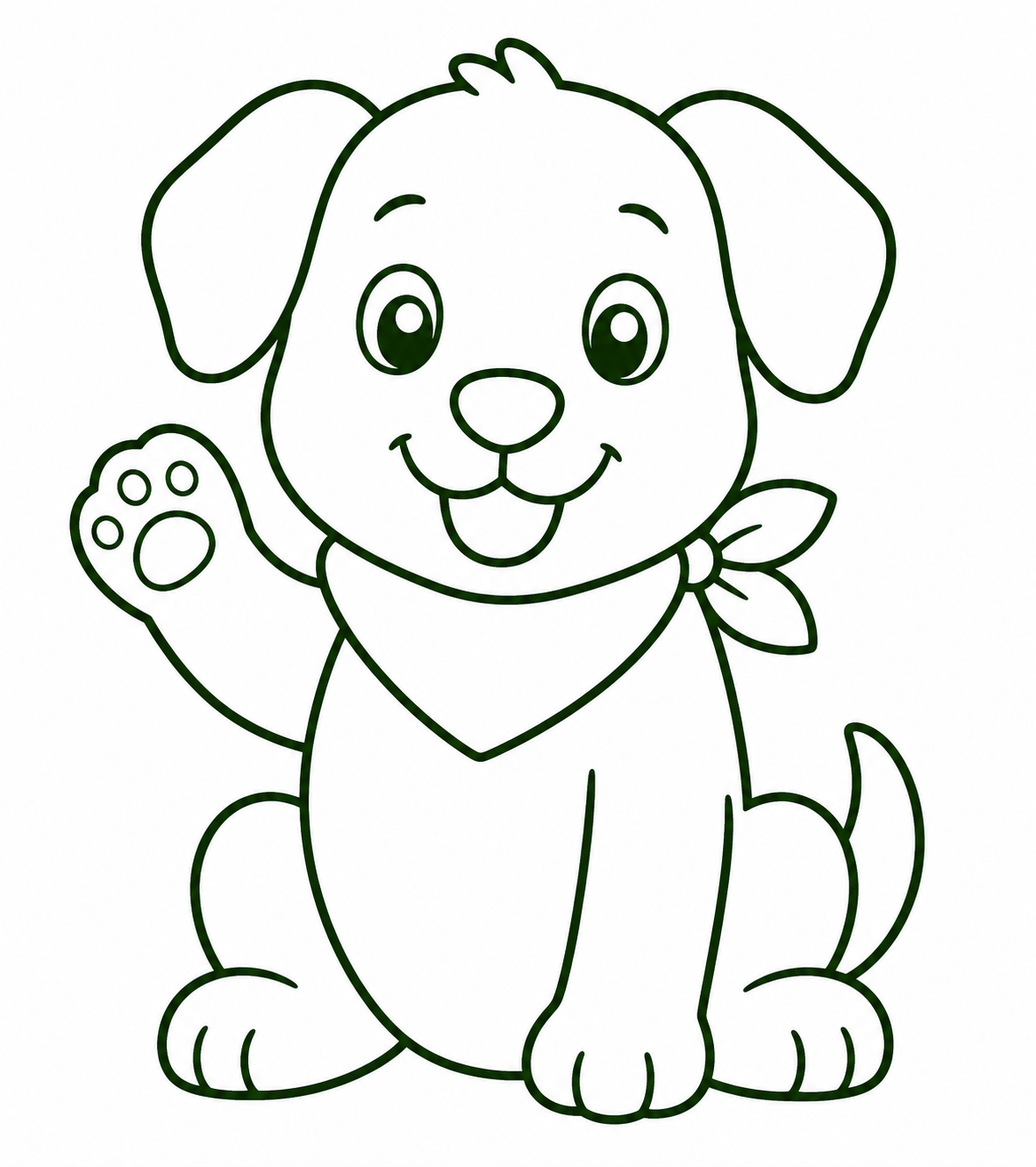
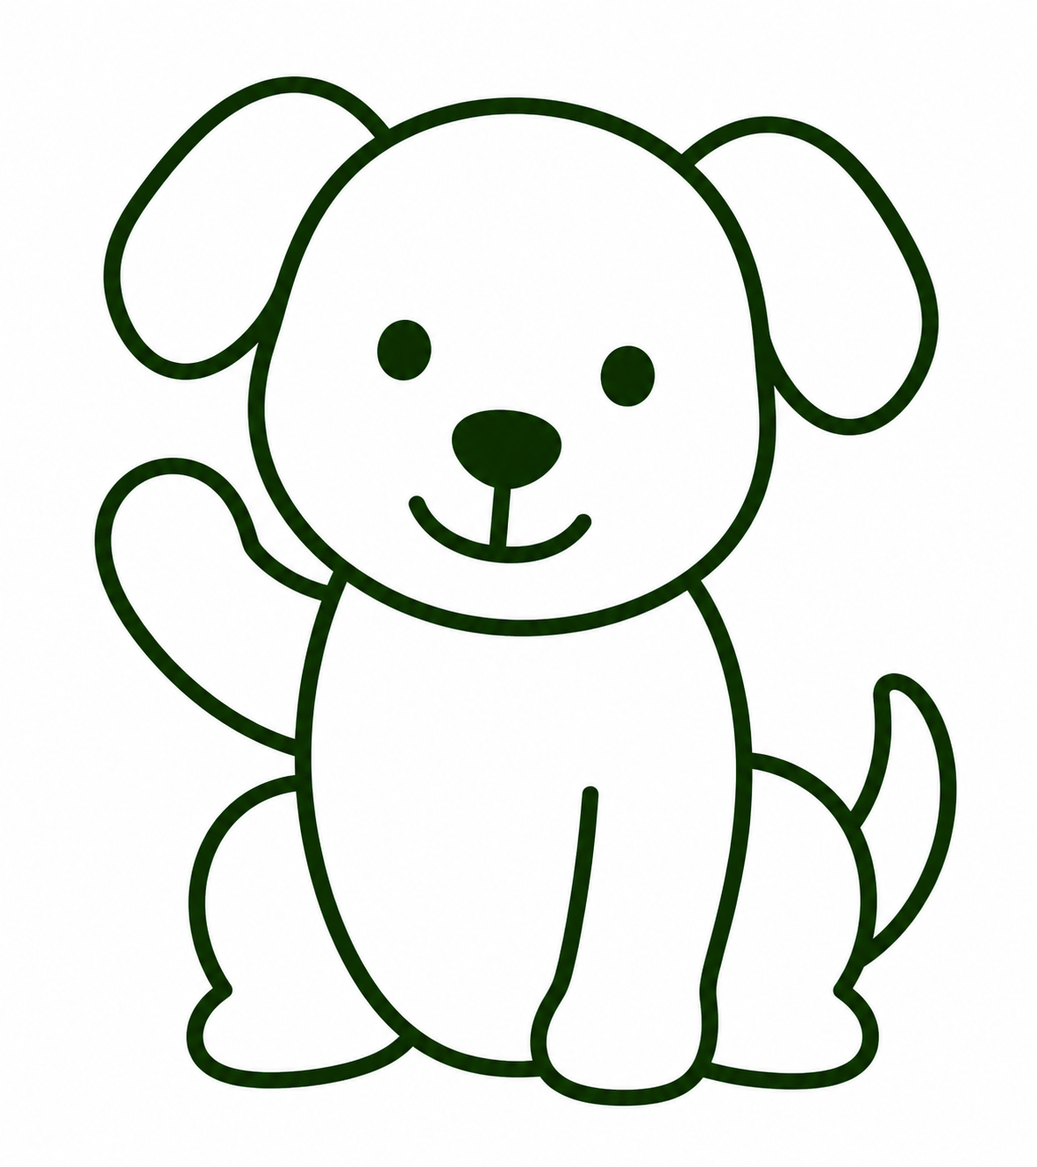
feat: simplify drawing studio and add fullscreen

Changed region(s): [[0.061, 0.0308, 0.945, 0.9857], [0.3658, 0.154, 0.4268, 0.1848], [0.3658, 0.3696, 0.3963, 0.4005]]

diff --git a/app/globals.css b/app/globals.css
@@ -254,6 +254,7 @@ main { min-width: 0; }
 .drawing-page { background:radial-gradient(circle at 96% 3%,rgba(246,198,88,.2),transparent 18rem),linear-gradient(145deg,rgba(255,253,247,.97),rgba(239,248,232,.94)); }.drawing-header { display:flex; align-items:center; justify-content:space-between; gap:18px; }.drawing-header>div:first-child>span { color:var(--leaf); font-size:11px; font-weight:950; }.drawing-header h1 { margin:5px 0 3px; font-size:32px; }.drawing-header p { margin:0; color:var(--muted); font-size:12px; }.drawing-wallet { min-width:120px; display:grid; grid-template-columns:auto 1fr; align-items:center; gap:0 8px; padding:12px 15px; border:1px solid #edd692; border-radius:17px; background:#fff4ca; }.drawing-wallet>span { grid-row:1/3; font-size:25px; }.drawing-wallet strong { font-size:20px; }.drawing-wallet small { color:#806d3c; font-size:9px; }.drawing-levels { display:grid; grid-template-columns:repeat(5,1fr); gap:8px; margin:20px 0 14px; }.drawing-levels button { position:relative; display:grid; grid-template-columns:auto auto 1fr; align-items:center; gap:2px 7px; min-height:75px; border:2px solid #dae8d4; padding:10px; border-radius:17px; color:var(--ink); background:#fff; text-align:left; cursor:pointer; }.drawing-levels button.active { border-color:var(--forest); background:#eef7e8; box-shadow:0 6px 0 rgba(39,93,50,.12); transform:translateY(-2px); }.drawing-levels button>span { grid-row:1/3; font-size:27px; }.drawing-levels b { display:grid; width:18px; height:18px; place-items:center; border-radius:50%; color:#fff; background:var(--leaf); font-size:9px; }.drawing-levels strong { font-size:11px; }.drawing-levels small { grid-column:2/4; color:var(--muted); font-size:8px; }.drawing-levels em { position:absolute; top:5px; right:6px; display:grid; width:17px; height:17px; place-items:center; border-radius:50%; color:#fff; background:var(--forest); font-size:9px; font-style:normal; }.drawing-layout { display:grid; grid-template-columns:minmax(0,1fr) 230px; gap:13px; }.drawing-workspace,.drawing-gallery { border:1px solid #d9e7d3; border-radius:22px; background:rgba(255,255,255,.78); }.drawing-workspace { padding:16px; }.drawing-workspace>header { display:flex; align-items:center; justify-content:space-between; gap:12px; margin-bottom:12px; }.drawing-workspace>header small { color:var(--leaf); font-size:9px; font-weight:850; }.drawing-workspace>header h2 { margin:2px 0; font-size:18px; }.drawing-workspace>header p { margin:0; color:var(--muted); font-size:9px; }.drawing-workspace>header>strong { padding:7px 10px; border-radius:999px; color:#8b6718; background:#fff0bb; font-size:9px; white-space:nowrap; }.drawing-stage { position:relative; overflow:hidden; aspect-ratio:10/7; border:5px solid #f1dfb3; border-radius:22px; background:#fffdf7; box-shadow:inset 0 0 0 1px #e7d5ad; }.drawing-stage img,.drawing-stage canvas { position:absolute; inset:0; width:100%; height:100%; }.drawing-stage img { object-fit:contain; pointer-events:none; }.drawing-stage canvas { z-index:2; touch-action:none; cursor:crosshair; }.drawing-toolbar { display:flex; align-items:center; justify-content:space-between; gap:10px; margin-top:12px; }.color-tools,.brush-tools,.edit-tools { display:flex; align-items:center; gap:5px; }.color-tools button { width:27px; height:27px; border:3px solid #fff; border-radius:50%; box-shadow:0 0 0 1px #d3ded0; cursor:pointer; }.color-tools button.active { box-shadow:0 0 0 3px #5d9655; transform:scale(1.08); }.brush-tools button,.edit-tools button { min-height:31px; border:1px solid #d6e3d1; padding:6px 8px; border-radius:10px; color:#47644a; background:#f8fbf6; font-size:8px; font-weight:850; cursor:pointer; }.brush-tools button { display:flex; align-items:center; gap:4px; }.brush-tools i { display:block; border-radius:50%; background:var(--forest); }.brush-tools button.active,.edit-tools button.active { color:#fff; background:var(--forest); }.edit-tools button:disabled { opacity:.42; cursor:not-allowed; }.template-control { display:flex; align-items:center; justify-content:space-between; gap:14px; margin-top:11px; padding:10px; border-radius:13px; background:#f1f6ed; }.template-control label { display:flex; align-items:center; gap:8px; color:#5c735b; font-size:9px; font-weight:850; }.template-control input { accent-color:var(--forest); }.template-control>button { border:0; padding:10px 13px; border-radius:11px; color:#fff; background:var(--forest); font-size:10px; font-weight:900; cursor:pointer; }.drawing-notice { margin-top:9px; padding:10px; border-radius:11px; color:#496b46; background:#e8f5df; font-size:10px; font-weight:850; text-align:center; }.drawing-gallery { padding:14px; }.drawing-gallery>header { display:flex; align-items:center; justify-content:space-between; gap:8px; }.drawing-gallery header small { color:var(--muted); font-size:8px; }.drawing-gallery h2 { margin:2px 0 0; font-size:16px; }.drawing-gallery header>span { padding:5px 7px; border-radius:999px; color:#5e755c; background:#ecf4e7; font-size:8px; }.drawing-gallery>div:not(.empty-gallery) { display:grid; gap:8px; max-height:650px; margin-top:12px; overflow:auto; }.drawing-gallery article { overflow:hidden; border:1px solid #dfe8da; border-radius:13px; background:#fff; }.drawing-gallery article img { display:block; width:100%; aspect-ratio:16/10; object-fit:cover; }.drawing-gallery article>div { display:flex; justify-content:space-between; gap:6px; padding:7px 8px; }.drawing-gallery article strong { font-size:9px; }.drawing-gallery article small { color:var(--muted); font-size:7px; }.empty-gallery { display:grid; min-height:290px; place-content:center; justify-items:center; text-align:center; }.empty-gallery>span { font-size:45px; }.empty-gallery strong { margin-top:8px; font-size:12px; }.empty-gallery p { margin:4px 0 0; color:var(--muted); font-size:9px; }
 
 .template-control>button:disabled { color:#91a38e; background:#dfe8db; cursor:not-allowed; box-shadow:none; }
+.drawing-picker { margin-top:22px; padding:20px; border:1px solid #d9e7d3; border-radius:28px; background:rgba(255,255,255,.76); box-shadow:var(--shadow-soft); }.drawing-picker>header { display:flex; align-items:center; gap:13px; margin-bottom:16px; }.drawing-picker>header>span { display:grid; place-items:center; width:58px; height:58px; border-radius:21px 21px 21px 7px; color:#fff; background:var(--forest); font-size:12px; font-weight:950; }.drawing-picker>header div { flex:1; }.drawing-picker>header small,.drawing-picker>header h2 { display:block; margin:0; }.drawing-picker>header small { color:var(--leaf); font-size:10px; font-weight:900; }.drawing-picker>header h2 { margin-top:2px; font-size:24px; }.drawing-picker>header>strong { padding:7px 11px; border-radius:999px; color:#5b7658; background:#edf5e7; font-size:10px; }.drawing-picker>div { display:grid; grid-template-columns:repeat(5,minmax(0,1fr)); gap:11px; }.drawing-picker>div>button { min-width:0; overflow:hidden; border:2px solid #dce9d6; padding:0; border-radius:22px; color:var(--ink); background:#fffdf8; text-align:left; cursor:pointer; transition:.18s ease; }.drawing-picker>div>button:hover { border-color:#82ad76; transform:translateY(-4px); box-shadow:0 12px 26px rgba(48,89,47,.12); }.drawing-picker figure { position:relative; height:190px; margin:0; overflow:hidden; background:linear-gradient(145deg,#eff7e9,#fff2d8); }.drawing-picker figure img { width:100%; height:100%; display:block; object-fit:contain; mix-blend-mode:multiply; }.drawing-picker figure i { position:absolute; left:9px; bottom:8px; display:grid; place-items:center; width:37px; height:37px; border:2px solid #fff; border-radius:13px; background:#edf5e7; font-size:20px; font-style:normal; box-shadow:var(--shadow-soft); }.drawing-picker figure em { position:absolute; top:8px; right:8px; padding:5px 7px; border-radius:999px; color:#fff; background:var(--forest); font-size:8px; font-style:normal; font-weight:900; }.drawing-picker button>div { display:grid; min-height:142px; align-content:start; padding:12px; }.drawing-picker button small { color:var(--leaf); font-size:8px; font-weight:900; }.drawing-picker button strong { margin-top:3px; font-size:15px; }.drawing-picker button p { margin:5px 0 10px; color:var(--muted); font-size:9px; line-height:1.5; }.drawing-picker button span { align-self:end; margin-top:auto; color:var(--forest); font-size:9px; font-weight:950; }.drawing-workspace-actions { display:flex; align-items:center; justify-content:flex-end; flex-wrap:wrap; gap:6px; }.drawing-workspace-actions>strong { padding:7px 10px; border-radius:999px; color:#8b6718; background:#fff0bb; font-size:9px; white-space:nowrap; }.drawing-workspace-actions>button { border:0; padding:8px 10px; border-radius:10px; color:#fff; background:var(--forest); font-size:9px; font-weight:900; cursor:pointer; }.drawing-workspace-actions>.drawing-change { color:#47644a; background:#edf4e9; }.drawing-is-fullscreen { position:fixed; inset:0; z-index:1000; display:block; padding:12px; overflow:auto; background:linear-gradient(145deg,#e8f4df,#fff8df); }.drawing-is-fullscreen .drawing-workspace { min-height:100%; display:grid; grid-template-rows:auto minmax(0,1fr) auto auto; border-radius:24px; box-shadow:0 22px 70px rgba(21,57,28,.25); }.drawing-is-fullscreen .drawing-stage { min-height:calc(100vh - 215px); aspect-ratio:auto; }.drawing-is-fullscreen .drawing-toolbar { margin-top:8px; }.drawing-is-fullscreen .template-control { margin-top:7px; }.drawing-is-fullscreen .drawing-notice { position:fixed; left:50%; bottom:18px; z-index:4; min-width:260px; transform:translateX(-50%); box-shadow:var(--shadow); }
 
 /* ============ 学习计划 ============ */
 .study-calendar { margin-top: 20px; padding: 18px; border: 1px solid #d8e7d1; border-radius: 22px; background: linear-gradient(145deg,#f8fcf4,#fffaf0); }
@@ -329,7 +330,7 @@ main { min-width: 0; }
   .preanswer-audio { margin-top:-4px; }.answer-option { grid-template-columns:1fr auto; grid-template-rows:1fr; align-items:stretch; }.answer-option>.tts-button { min-width:92px; align-self:stretch; }
   .learning-density { grid-template-columns:1fr auto; }.learning-density p { grid-column:1 / -1; }.task-group>header span { overflow:hidden; text-overflow:ellipsis; white-space:nowrap; }.task-icon { font-size:14px; }.trace-board canvas { height:190px; }
   .mobile-nav { position:fixed; display:grid; grid-template-columns:repeat(10,1fr); left:0; right:0; bottom:0; z-index:50; padding:7px 4px max(7px,env(safe-area-inset-bottom)); background:rgba(255,253,247,.96); border-top:1px solid #dfe9d8; box-shadow:0 -8px 24px rgba(48,82,45,.08); backdrop-filter:blur(16px); }.mobile-nav button { min-height:48px; border:0; padding-inline:1px; border-radius:11px; background:none; color:#6b836b; font-size:8px; font-weight:750; }.mobile-nav button span { display:block; font-size:19px; margin-bottom:2px; }.mobile-nav button.active { color:var(--forest); background:#e9f3e3; }
-  .drawing-header { align-items:flex-start; }.drawing-header h1 { font-size:25px; }.drawing-levels { grid-template-columns:repeat(5,125px); overflow-x:auto; margin-right:-15px; padding:3px 15px 8px 1px; }.drawing-layout { grid-template-columns:1fr; }.drawing-gallery { order:2; }.drawing-stage { border-width:3px; border-radius:17px; }.drawing-toolbar { align-items:flex-start; flex-direction:column; }.color-tools { width:100%; justify-content:space-between; }.color-tools button { width:29px; height:29px; }.brush-tools,.edit-tools { width:100%; }.brush-tools button,.edit-tools button { flex:1; }.template-control { align-items:stretch; flex-direction:column; }.template-control label { justify-content:space-between; }.template-control>button { width:100%; }.drawing-gallery>div:not(.empty-gallery) { grid-template-columns:repeat(2,1fr); max-height:none; }
+  .drawing-header { align-items:flex-start; }.drawing-header h1 { font-size:25px; }.drawing-picker { padding:14px 11px; border-radius:21px; }.drawing-picker>header>span { width:47px; height:47px; border-radius:17px 17px 17px 6px; }.drawing-picker>header h2 { font-size:20px; }.drawing-picker>div { grid-template-columns:1fr; }.drawing-picker>div>button { display:grid; grid-template-columns:132px 1fr; }.drawing-picker figure { height:148px; }.drawing-picker button>div { min-height:148px; padding:11px; }.drawing-layout { grid-template-columns:1fr; }.drawing-gallery { order:2; }.drawing-workspace>header { align-items:flex-start; flex-direction:column; }.drawing-workspace-actions { width:100%; justify-content:flex-start; }.drawing-workspace-actions>button { flex:1; }.drawing-stage { border-width:3px; border-radius:17px; }.drawing-toolbar { align-items:flex-start; flex-direction:column; }.color-tools { width:100%; justify-content:space-between; }.color-tools button { width:29px; height:29px; }.brush-tools,.edit-tools { width:100%; }.brush-tools button,.edit-tools button { flex:1; }.template-control { align-items:stretch; flex-direction:column; }.template-control label { justify-content:space-between; }.template-control>button { width:100%; }.drawing-gallery>div:not(.empty-gallery) { grid-template-columns:repeat(2,1fr); max-height:none; }.drawing-is-fullscreen { padding:5px; }.drawing-is-fullscreen .drawing-workspace { padding:9px; border-radius:16px; }.drawing-is-fullscreen .drawing-stage { min-height:calc(100vh - 300px); }
   .study-calendar { padding:14px 10px; }.study-calendar>header { align-items:flex-start; }.calendar-legend { flex-direction:column; gap:3px; }.phase-strip { grid-template-columns:1fr; }.phase-strip span:not(.active) { display:none; }.calendar-days { grid-template-columns:repeat(7,minmax(0,1fr)); gap:5px; }.calendar-days button { min-height:40px; border-radius:9px; }.plan-subject { padding:15px 12px; }.plan-go-today { width:100%; margin-left:0; }
   .plan-modal { padding:28px 16px 20px; max-height:92vh; overflow:auto; }.plan-modal h2 { font-size:23px; }.plan-grid { grid-template-columns:1fr; }.plan-card.featured { transform:none; }.plan-card { padding:20px 14px 14px; }.plan-card p { min-height:0; }
 }

diff --git a/app/components/DrawingStudio.tsx b/app/components/DrawingStudio.tsx
@@ -6,11 +6,11 @@ import type { PointerEvent as ReactPointerEvent } from "react";
 type DrawingSample = { id: string; title: string; category: string; level: string; icon: string; image: string; instruction: string; reward: number; opacity: number };
 
 const samples: DrawingSample[] = [
-  { id: "puppy-coloring", title: "挥手小狗", category: "森林动物", level: "萌芽填色", icon: "🐶", image: "/drawing-samples/01-puppy-coloring.png", instruction: "选一支粗画笔，给小狗涂上喜欢的颜色。", reward: 5, opacity: .9 },
-  { id: "bunny-tracing", title: "萝卜小兔", category: "森林动物", level: "线条描画", icon: "🐰", image: "/drawing-samples/02-bunny-tracing.png", instruction: "沿着绿色虚线慢慢画，别着急。", reward: 8, opacity: .65 },
-  { id: "kitten-steps", title: "四步画小猫", category: "分步学画", level: "分步学画", icon: "🐱", image: "/drawing-samples/03-kitten-steps.png", instruction: "从圆形开始，跟着四幅小图一步一步画。", reward: 10, opacity: .85 },
-  { id: "cottage-grid", title: "森林小屋", category: "花草自然", level: "网格临摹", icon: "🏡", image: "/drawing-samples/04-cottage-grid.png", instruction: "观察每一个格子，把小屋临摹出来。", reward: 12, opacity: .55 },
-  { id: "train-challenge", title: "补全小火车", category: "快乐交通", level: "创意挑战", icon: "🚂", image: "/drawing-samples/05-train-challenge.png", instruction: "发挥想象，在右边补全小火车和森林。", reward: 15, opacity: .8 },
+  { id: "puppy-coloring", title: "挥手小狗", category: "森林动物", level: "大块填色", icon: "🐶", image: "/drawing-samples/01-puppy-coloring.png", instruction: "只有几个大色块，选喜欢的颜色涂一涂。", reward: 5, opacity: .9 },
+  { id: "bunny-tracing", title: "萝卜小兔", category: "森林动物", level: "简单描线", icon: "🐰", image: "/drawing-samples/02-bunny-tracing.png", instruction: "沿着宽宽的绿色虚线慢慢画。", reward: 8, opacity: .65 },
+  { id: "kitten-steps", title: "三步画小猫", category: "分步学画", level: "三步学画", icon: "🐱", image: "/drawing-samples/03-kitten-steps.png", instruction: "圆形、耳朵、笑脸，三步画出小猫。", reward: 10, opacity: .85 },
+  { id: "cottage-grid", title: "四格小屋", category: "花草自然", level: "四格临摹", icon: "🏡", image: "/drawing-samples/04-cottage-grid.png", instruction: "只看四个大格子，把简单小屋画出来。", reward: 12, opacity: .55 },
+  { id: "train-challenge", title: "补全小火车", category: "快乐交通", level: "半边补全", icon: "🚂", image: "/drawing-samples/05-train-challenge.png", instruction: "照着左边，在右边补全半辆小火车。", reward: 15, opacity: .8 },
 ];
 
 const colors = ["#245b35", "#f05d74", "#f59d3d", "#f2ca4b", "#71b95a", "#52a8cf", "#8e71c7", "#6f4c3e"];
@@ -18,15 +18,17 @@ const brushSizes = [6, 14, 28];
 
 export default function DrawingStudio({ coins, onReward }: { coins: number; onReward: (amount: number) => void }) {
   const canvasRef = useRef<HTMLCanvasElement>(null);
+  const layoutRef = useRef<HTMLDivElement>(null);
   const drawingRef = useRef(false);
   const lastPoint = useRef({ x: 0, y: 0 });
   const undoStack = useRef<ImageData[]>([]);
   const redoStack = useRef<ImageData[]>([]);
-  const [sample, setSample] = useState(samples[0]);
+  const [sample, setSample] = useState<DrawingSample | null>(null);
   const [color, setColor] = useState(colors[0]);
   const [brushSize, setBrushSize] = useState(14);
   const [eraser, setEraser] = useState(false);
   const [templateOpacity, setTemplateOpacity] = useState(samples[0].opacity);
+  const [isFullscreen, setIsFullscreen] = useState(false);
   const [hasDrawing, setHasDrawing] = useState(false);
   const [, setHistoryTick] = useState(0);
   const [notice, setNotice] = useState("");
@@ -38,6 +40,18 @@ export default function DrawingStudio({ coins, onReward }: { coins: number; onRe
       setCompleted(JSON.parse(window.localStorage.getItem("puppy-forest-drawing-completed") ?? "[]"));
       setGallery(JSON.parse(window.localStorage.getItem("puppy-forest-drawing-gallery") ?? "[]"));
     } catch { /* ignore */ }
+  }, []);
+
+  useEffect(() => {
+    document.body.style.overflow = isFullscreen ? "hidden" : "";
+    return () => { document.body.style.overflow = ""; };
+  }, [isFullscreen]);
+
+  useEffect(() => {
+    const onFullscreenChange = () => { if (!document.fullscreenElement) setIsFullscreen(false); };
+    const onKeyDown = (event: KeyboardEvent) => { if (event.key === "Escape") setIsFullscreen(false); };
+    document.addEventListener("fullscreenchange", onFullscreenChange); document.addEventListener("keydown", onKeyDown);
+    return () => { document.removeEventListener("fullscreenchange", onFullscreenChange); document.removeEventListener("keydown", onKeyDown); };
   }, []);
 
   const context = () => canvasRef.current?.getContext("2d", { willReadFrequently: true }) ?? null;
@@ -54,6 +68,19 @@ export default function DrawingStudio({ coins, onReward }: { coins: number; onRe
   const chooseSample = (next: DrawingSample) => {
     clearDrawing(false); undoStack.current = []; redoStack.current = [];
     setSample(next); setTemplateOpacity(next.opacity); setNotice(""); setHistoryTick((value) => value + 1);
+  };
+  const returnToChoices = () => {
+    if (document.fullscreenElement) void document.exitFullscreen();
+    setIsFullscreen(false); clearDrawing(false); undoStack.current = []; redoStack.current = [];
+    setSample(null); setNotice("");
+  };
+  const toggleFullscreen = async () => {
+    if (isFullscreen) {
+      if (document.fullscreenElement) await document.exitFullscreen();
+      setIsFullscreen(false); return;
+    }
+    setIsFullscreen(true);
+    try { await layoutRef.current?.requestFullscreen?.(); } catch { /* CSS fullscreen remains available */ }
   };
   const pointFromEvent = (event: ReactPointerEvent<HTMLCanvasElement>) => {
     const rect = event.currentTarget.getBoundingClientRect();
@@ -76,7 +103,7 @@ export default function DrawingStudio({ coins, onReward }: { coins: number; onRe
   const undo = () => { const ctx = context(); if (!ctx || undoStack.current.length === 0) return; redoStack.current.push(ctx.getImageData(0, 0, 1000, 700)); ctx.putImageData(undoStack.current.pop()!, 0, 0); setHistoryTick((value) => value + 1); };
   const redo = () => { const ctx = context(); if (!ctx || redoStack.current.length === 0) return; undoStack.current.push(ctx.getImageData(0, 0, 1000, 700)); ctx.putImageData(redoStack.current.pop()!, 0, 0); setHistoryTick((value) => value + 1); };
   const saveArtwork = async () => {
-    const source = canvasRef.current; if (!source) return;
+    const source = canvasRef.current; if (!source || !sample) return;
     const output = document.createElement("canvas"); output.width = 800; output.height = 560;
     const ctx = output.getContext("2d"); if (!ctx) return;
     ctx.fillStyle = "#fffdf7"; ctx.fillRect(0, 0, 800, 560);
@@ -98,11 +125,10 @@ export default function DrawingStudio({ coins, onReward }: { coins: number; onRe
 
   return <section className="drawing-page page-surface">
     <header className="drawing-header"><div><span>🎨 森林小画室</span><h1>照着画，也可以画得不一样</h1><p>从简单填色到创意挑战，慢慢练习小手控制和观察力。</p></div><div className="drawing-wallet"><span>🪙</span><strong>{coins}</strong><small>学习金币</small></div></header>
-    <div className="drawing-levels">{samples.map((item, index) => <button className={sample.id === item.id ? "active" : ""} key={item.id} onClick={() => chooseSample(item)} type="button"><span>{item.icon}</span><b>{index + 1}</b><strong>{item.level}</strong><small>{item.title}</small>{completed.includes(item.id) && <em>✓</em>}</button>)}</div>
-    <div className="drawing-layout"><section className="drawing-workspace"><header><div><small>{sample.category} · {sample.level}</small><h2>{sample.icon} {sample.title}</h2><p>{sample.instruction}</p></div><strong>首次完成 +{sample.reward} 🪙</strong></header>
+    {!sample ? <section className="drawing-picker"><header><span>第一步</span><div><small>今天想画什么？</small><h2>选一张喜欢的画</h2></div><strong>共 {samples.length} 张</strong></header><div>{samples.map((item, index) => <button key={item.id} onClick={() => chooseSample(item)} type="button"><figure><img src={item.image} alt={`${item.title}画画底稿`} /><i>{item.icon}</i>{completed.includes(item.id) && <em>画过啦 ✓</em>}</figure><div><small>第 {index + 1} 关 · {item.level}</small><strong>{item.title}</strong><p>{item.instruction}</p><span>选这张画 →</span></div></button>)}</div></section> : <div ref={layoutRef} className={`drawing-layout${isFullscreen ? " drawing-is-fullscreen" : ""}`}><section className="drawing-workspace"><header><div><small>{sample.category} · {sample.level}</small><h2>{sample.icon} {sample.title}</h2><p>{sample.instruction}</p></div><div className="drawing-workspace-actions"><strong>首次完成 +{sample.reward} 🪙</strong><button onClick={() => void toggleFullscreen()} type="button">{isFullscreen ? "↙ 退出全屏" : "⛶ 全屏画画"}</button><button className="drawing-change" onClick={returnToChoices} type="button">换一张</button></div></header>
       <div className="drawing-stage"><img src={sample.image} alt={`${sample.title}临摹底稿`} style={{ opacity: templateOpacity }} /><canvas ref={canvasRef} width={1000} height={700} onPointerDown={startDrawing} onPointerMove={draw} onPointerUp={stopDrawing} onPointerCancel={stopDrawing} aria-label={`${sample.title}画板`} /></div>
       <div className="drawing-toolbar"><div className="color-tools" aria-label="选择画笔颜色">{colors.map((item) => <button className={color === item && !eraser ? "active" : ""} key={item} onClick={() => { setColor(item); setEraser(false); }} style={{ background: item }} aria-label={`选择颜色 ${item}`} type="button" />)}</div><div className="brush-tools">{brushSizes.map((size) => <button className={brushSize === size ? "active" : ""} key={size} onClick={() => setBrushSize(size)} type="button"><i style={{ width: size / 2 + 5, height: size / 2 + 5 }} />{size === 6 ? "细" : size === 14 ? "中" : "粗"}</button>)}</div><div className="edit-tools"><button className={eraser ? "active" : ""} onClick={() => setEraser(!eraser)} type="button">🧽 橡皮</button><button disabled={undoStack.current.length === 0} onClick={undo} type="button">↶ 撤销</button><button disabled={redoStack.current.length === 0} onClick={redo} type="button">↷ 重做</button><button onClick={() => clearDrawing()} type="button">清空</button></div></div>
       <div className="template-control"><label>底稿清晰度 <input type="range" min="0.15" max="1" step="0.05" value={templateOpacity} onChange={(event) => setTemplateOpacity(Number(event.target.value))} /></label><button disabled={!hasDrawing} onClick={() => void saveArtwork()} type="button">{hasDrawing ? "收藏到我的画册 →" : "先画几笔吧"}</button></div>{notice && <div className="drawing-notice">🌟 {notice}</div>}</section>
-      <aside className="drawing-gallery"><header><div><small>本机最多保存8幅</small><h2>🖼 我的画册</h2></div><span>{gallery.length} 幅</span></header>{gallery.length === 0 ? <div className="empty-gallery"><span>🎨</span><strong>第一幅画在等你</strong><p>画好后点击“收藏到我的画册”。</p></div> : <div>{gallery.map((art) => <article key={art.id}><img src={art.image} alt={art.title} /><div><strong>{art.title}</strong><small>{art.date}</small></div></article>)}</div>}</aside></div>
+      {!isFullscreen && <aside className="drawing-gallery"><header><div><small>本机最多保存8幅</small><h2>🖼 我的画册</h2></div><span>{gallery.length} 幅</span></header>{gallery.length === 0 ? <div className="empty-gallery"><span>🎨</span><strong>第一幅画在等你</strong><p>画好后点击“收藏到我的画册”。</p></div> : <div>{gallery.map((art) => <article key={art.id}><img src={art.image} alt={art.title} /><div><strong>{art.title}</strong><small>{art.date}</small></div></article>)}</div>}</aside>}</div>}
   </section>;
 }
